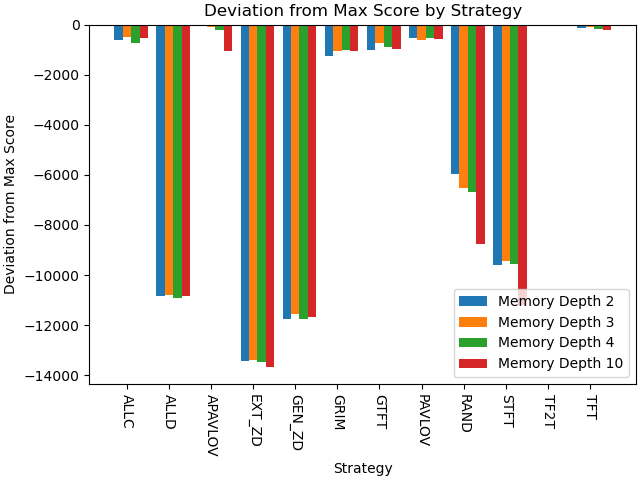
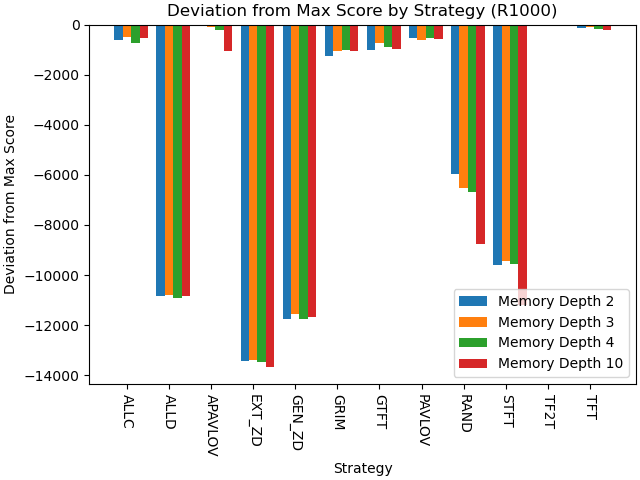
Add merged figures (exclude GA)

Changed region(s): [[0.25, 0.0, 0.875, 0.0625]]

diff --git a/output/hill-climbing/tft-optimization/visualizer.py b/output/hill-climbing/tft-optimization/visualizer.py
@@ -76,27 +76,32 @@ def graph_win_count(data: dict):
     plt.xlabel("Strategy")
     plt.xticks(x_axis + width, strategy, rotation=-90)
     plt.ylabel("Wins")
-    plt.title("Wins by Strategy")
+    plt.title("Wins by Strategy (TFT)")
     #plt.show()
     plt.savefig(f'hc-tft-win-count.png')
     plt.close()
 
 def graph_score_count(data:dict):
     x = len(list(data.values())[0])
-    for iteration, results in data.items():
-        plt.subplots(layout="constrained")
+    x_axis = np.arange(x)
+    width = 0.2
+    plt.figure(layout="constrained")
+    for i, (iteration, results) in enumerate(data.items()):
         strategy = list(results.keys())
         cumulative_score = [scores[3] for scores in results.values()]
+        offset = width * i
+        #plt.bar(strategy, cumulative_score, label=f"Iteration {iteration}")
         score_deviation = [s - max(cumulative_score) for s in cumulative_score]
-        plt.bar(strategy, score_deviation, label=f"Iteration {iteration}")
-        plt.legend()
-        plt.xlabel("Strategy")
-        plt.xticks(strategy, rotation=-90)
-        plt.ylabel("Deviation from Max Score")
-        plt.title("Deviation from Max Score by Strategy")
-        #plt.show()
-        plt.savefig(f'hc-tft-score-deviation-iter{iteration}.png')
-        plt.close()
+        plt.bar(x_axis + offset, score_deviation, width, label=f"Iteration {iteration}")
+    
+    plt.legend()
+    plt.xlabel("Strategy")
+    plt.xticks(x_axis + width, strategy, rotation=-90)
+    plt.ylabel("Deviation from Max Score")
+    plt.title("Deviation from Max Score by Strategy (TFT)")
+    #plt.show()
+    plt.savefig(f'hc-tft-score-deviation.png')
+    plt.close()
 
 if __name__ == '__main__':
     print("Parent: ", init_strategy)

diff --git a/output/tabu/tft-optimization/visualizer.py b/output/tabu/tft-optimization/visualizer.py
@@ -76,27 +76,30 @@ def graph_win_count(data: dict):
     plt.xlabel("Strategy")
     plt.xticks(x_axis + width, strategy, rotation=-90)
     plt.ylabel("Wins")
-    plt.title("Wins by Strategy")
+    plt.title("Wins by Strategy (TFT)")
     #plt.show()
     plt.savefig(f'ts-tft-win-count.png')
     plt.close()
 
 def graph_score_count(data:dict):
     x = len(list(data.values())[0])
-    for tabu_size, results in data.items():
-        plt.subplots(layout="constrained")
+    x_axis = np.arange(x)
+    width = 0.2
+    plt.figure(layout="constrained")
+    for i, (tabu_size, results) in enumerate(data.items()):
         strategy = list(results.keys())
         cumulative_score = [scores[3] for scores in results.values()]
         score_deviation = [s - max(cumulative_score) for s in cumulative_score]
-        plt.bar(strategy, score_deviation, label=f"Tabu Size {tabu_size}")
-        plt.legend()
-        plt.xlabel("Strategy")
-        plt.xticks(strategy, rotation=-90)
-        plt.ylabel("Deviation from Max Score")
-        plt.title("Deviation from Max Score by Strategy")
-        #plt.show()
-        plt.savefig(f'ts-tft-score-deviation-size{tabu_size}.png')
-        plt.close()
+        offset = width * i
+        plt.bar(x_axis + offset, score_deviation, width, label=f"Tabu Size {tabu_size}")
+    plt.legend()
+    plt.xlabel("Strategy")
+    plt.xticks(x_axis + width, strategy, rotation=-90)
+    plt.ylabel("Deviation from Max Score")
+    plt.title("Deviation from Max Score by Strategy (TFT)")
+    #plt.show()
+    plt.savefig(f'ts-tft-score-deviation.png')
+    plt.close()
 
 if __name__ == '__main__':
     print("Parent: ", init_strategy)

diff --git a/output/hill-climbing/no-tft-optimization/visualizer.py b/output/hill-climbing/no-tft-optimization/visualizer.py
@@ -83,21 +83,25 @@ def graph_win_count(data: dict):
 
 def graph_score_count(data:dict):
     x = len(list(data.values())[0])
-    for iteration, results in data.items():
-        plt.subplots(layout="constrained")
+    x_axis = np.arange(x)
+    width = 0.2
+    plt.figure(layout="constrained")
+    for i, (iteration, results) in enumerate(data.items()):
         strategy = list(results.keys())
         cumulative_score = [scores[3] for scores in results.values()]
+        offset = width * i
         #plt.bar(strategy, cumulative_score, label=f"Iteration {iteration}")
         score_deviation = [s - max(cumulative_score) for s in cumulative_score]
-        plt.bar(strategy, score_deviation, label=f"Iteration {iteration}")
-        plt.legend()
-        plt.xlabel("Strategy")
-        plt.xticks(strategy, rotation=-90)
-        plt.ylabel("Deviation from Max Score")
-        plt.title("Deviation from Max Score by Strategy")
-        #plt.show()
-        plt.savefig(f'hc-no-tft-score-deviation-iter{iteration}.png')
-        plt.close()
+        plt.bar(x_axis + offset, score_deviation, width, label=f"Iteration {iteration}")
+    
+    plt.legend()
+    plt.xlabel("Strategy")
+    plt.xticks(x_axis + width, strategy, rotation=-90)
+    plt.ylabel("Deviation from Max Score")
+    plt.title("Deviation from Max Score by Strategy")
+    #plt.show()
+    plt.savefig(f'hc-no-tft-score-deviation.png')
+    plt.close()
 
 if __name__ == '__main__':
     print("Parent: ", init_strategy)

diff --git a/output/tabu/no-tft-optimization/visualizer.py b/output/tabu/no-tft-optimization/visualizer.py
@@ -83,20 +83,23 @@ def graph_win_count(data: dict):
 
 def graph_score_count(data:dict):
     x = len(list(data.values())[0])
-    for tabu_size, results in data.items():
-        plt.subplots(layout="constrained")
+    x_axis = np.arange(x)
+    width = 0.2
+    plt.figure(layout="constrained")
+    for i, (tabu_size, results) in enumerate(data.items()):
         strategy = list(results.keys())
         cumulative_score = [scores[3] for scores in results.values()]
         score_deviation = [s - max(cumulative_score) for s in cumulative_score]
-        plt.bar(strategy, score_deviation, label=f"Tabu Size {tabu_size}")
-        plt.legend()
-        plt.xlabel("Strategy")
-        plt.xticks(strategy, rotation=-90)
-        plt.ylabel("Deviation from Max Score")
-        plt.title("Deviation from Max Score by Strategy")
-        #plt.show()
-        plt.savefig(f'ts-no-tft-score-deviation-iter{tabu_size}.png')
-        plt.close()
+        offset = width * i
+        plt.bar(x_axis + offset, score_deviation, width, label=f"Tabu Size {tabu_size}")
+    plt.legend()
+    plt.xlabel("Strategy")
+    plt.xticks(x_axis + width, strategy, rotation=-90)
+    plt.ylabel("Deviation from Max Score")
+    plt.title("Deviation from Max Score by Strategy")
+    #plt.show()
+    plt.savefig(f'ts-no-tft-score-deviation.png')
+    plt.close()
 
 if __name__ == '__main__':
     print("Parent: ", init_strategy)

diff --git a/output/human-only-strategies/visualizer.py b/output/human-only-strategies/visualizer.py
@@ -187,7 +187,7 @@ def visualize_win_by_memory(data: dict, name: str):
     plt.xlabel("Strategy")
     plt.xticks(x_axis + width, strategy, rotation=-90)
     plt.ylabel("Wins")
-    plt.title("Wins by Strategy")
+    plt.title(f"Wins by Strategy ({name})")
     #plt.show()
     plt.savefig(f'{name}-wincount.png')
     plt.close()
@@ -209,11 +209,11 @@ def visualize_score_by_memory(data: dict , name:str):
     plt.xlabel("Strategy")
     plt.xticks(x_axis + width, strategy, rotation=-90)
     plt.ylabel("Deviation from Max Score")
-    plt.title("Deviation from Max Score by Strategy")
+    plt.title(f"Deviation from Max Score by Strategy ({name})")
     #plt.show()
     plt.savefig(f'{name}-score-deviation.png')
     plt.close()
 
 if __name__ == "__main__":
-    #visualize_win_by_memory(data_r1000, name="R1000")
-    visualize_score_by_memory(data_r1000, name="R1000")
+    visualize_win_by_memory(data_r10, name="R10")
+    visualize_score_by_memory(data_r10, name="R10")
